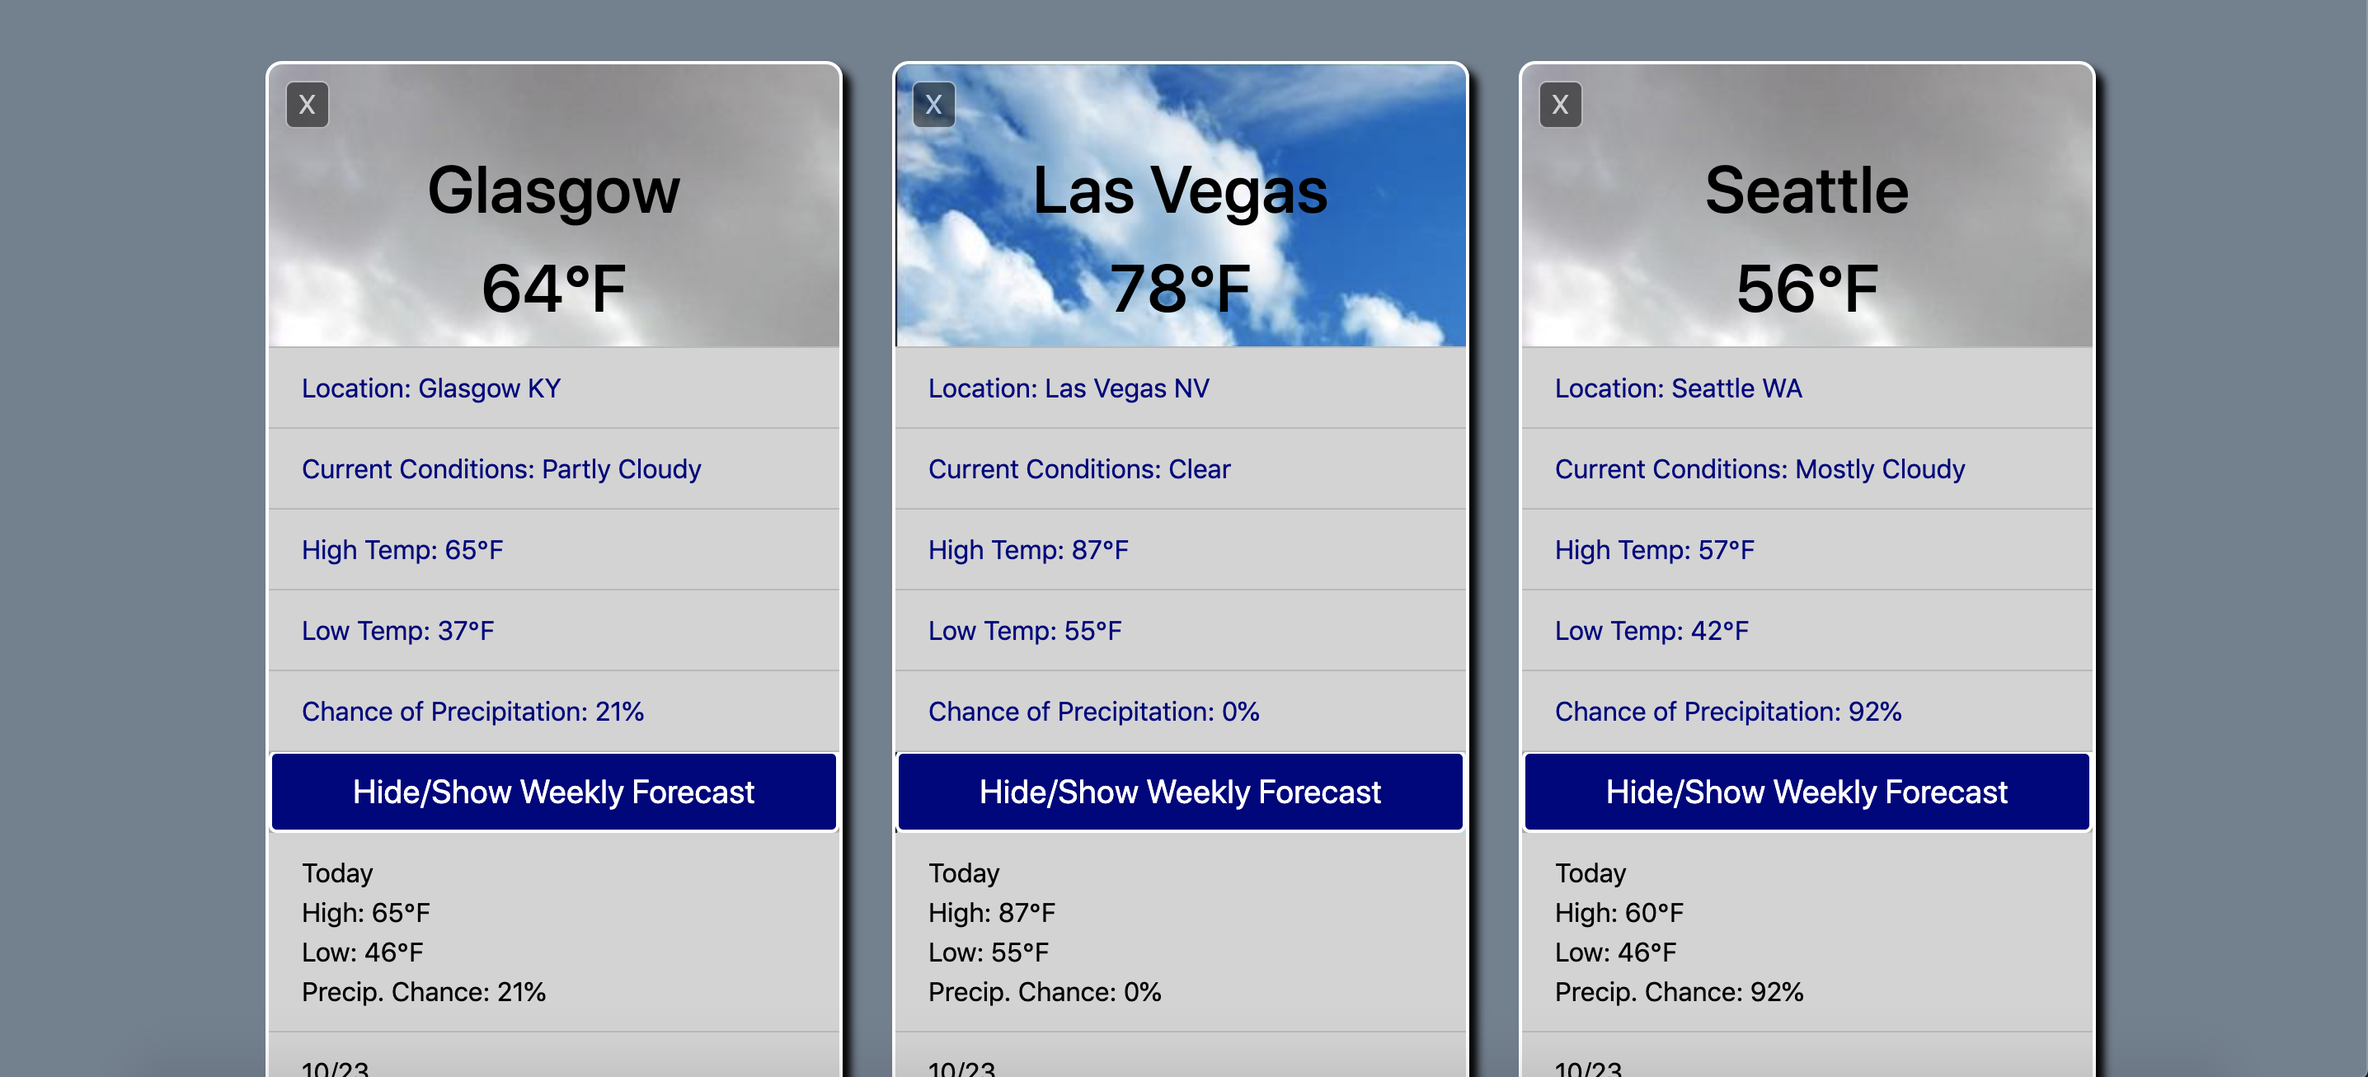
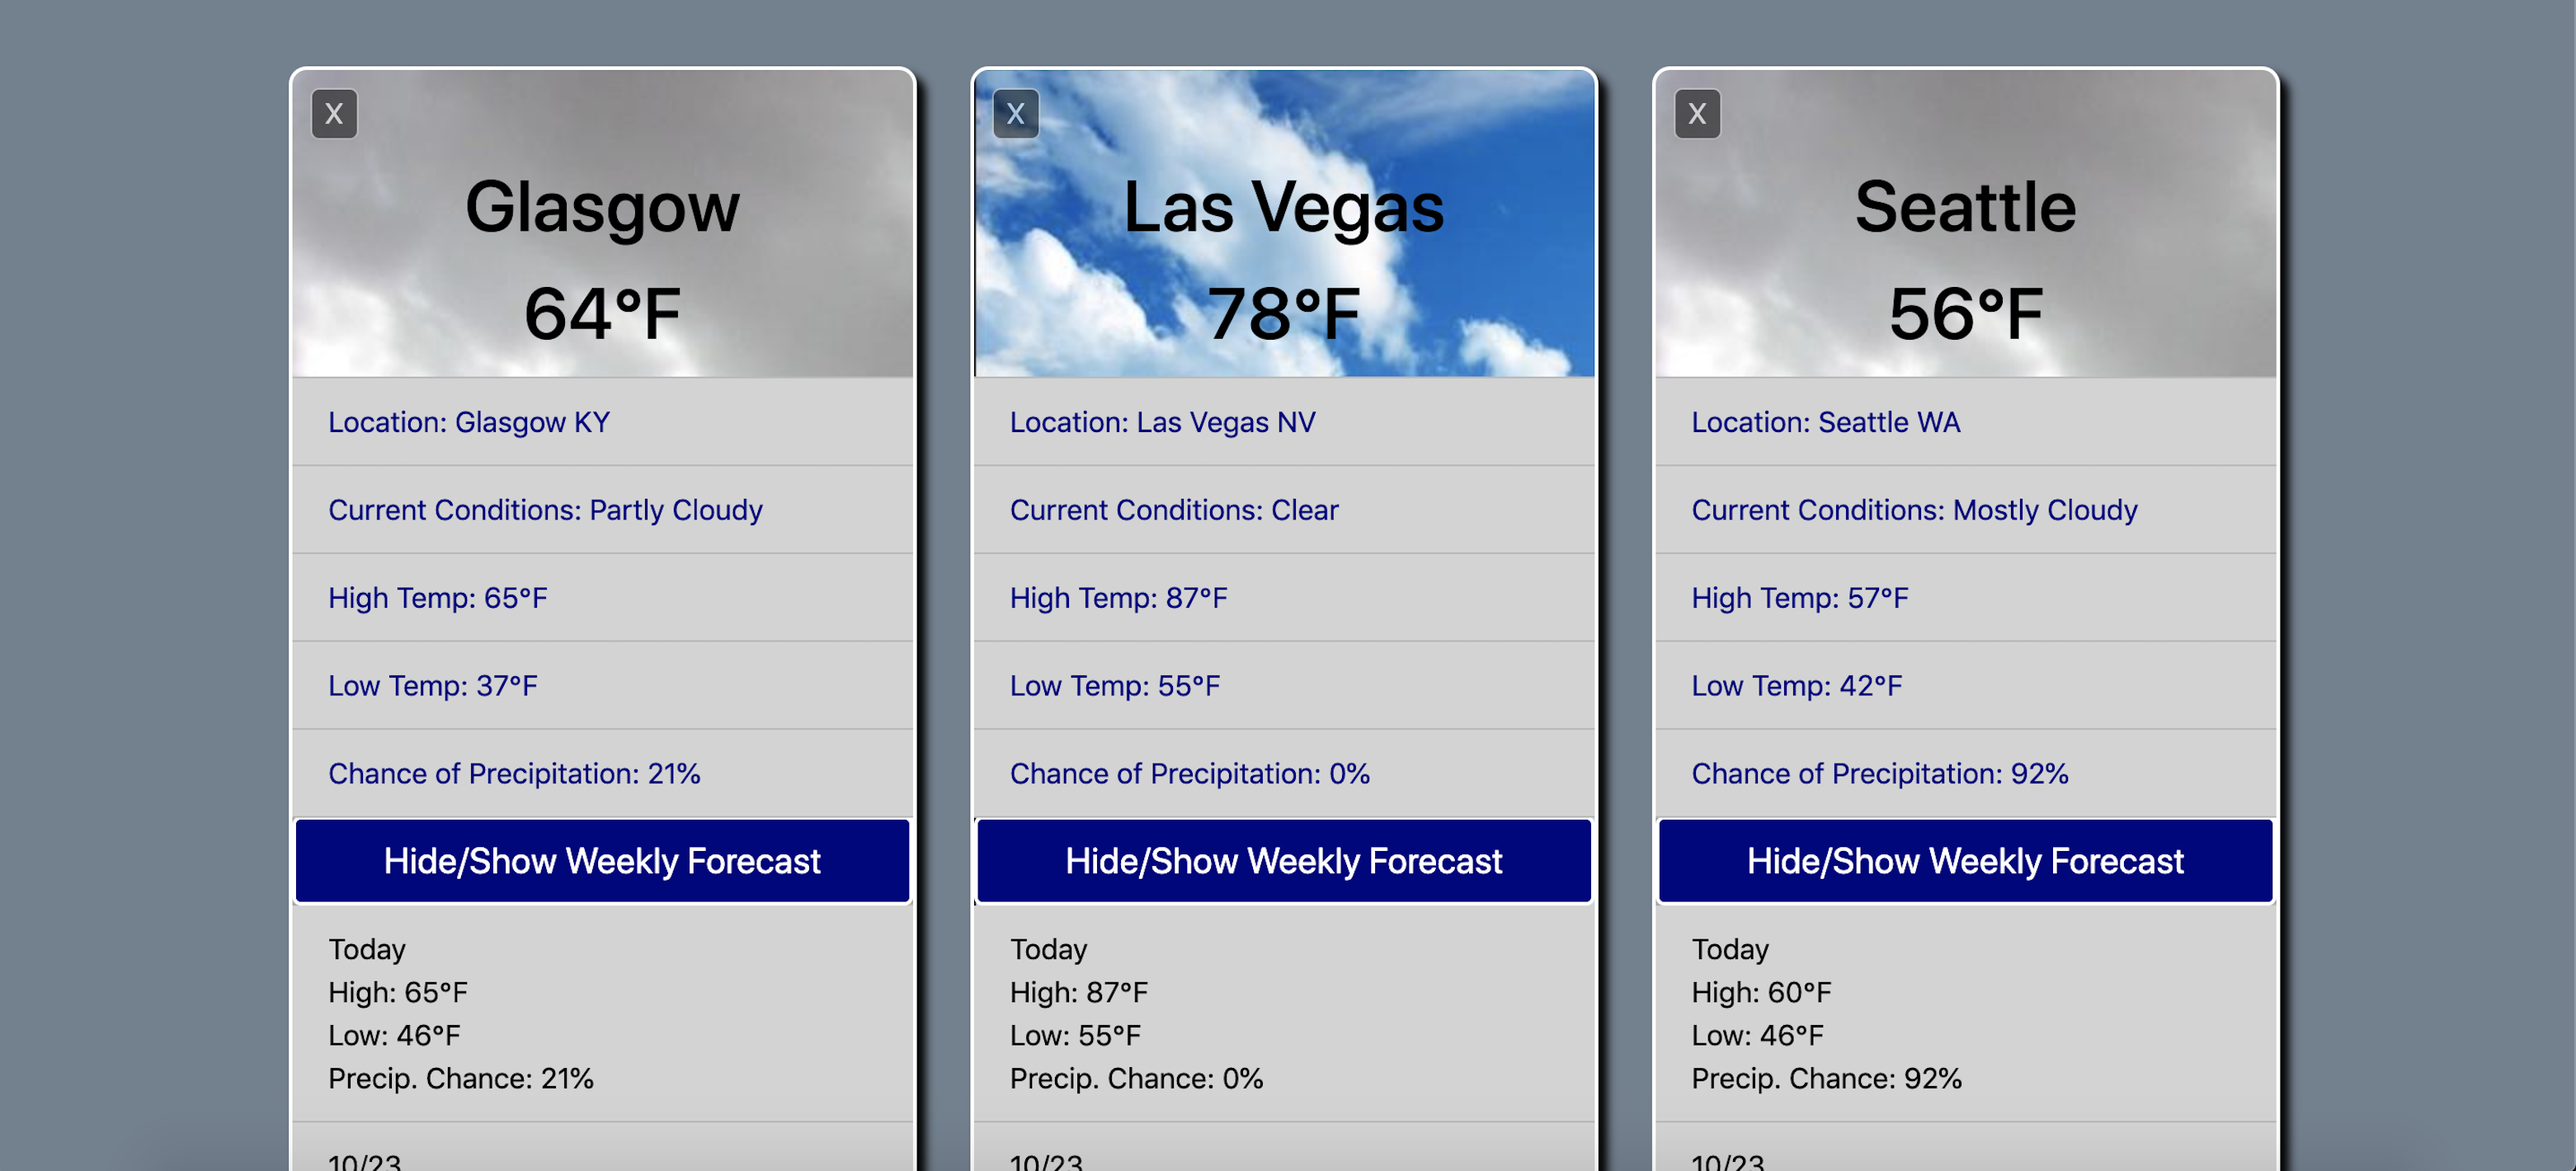
Changed the size of the Weather API Site picture

diff --git a/index.html b/index.html
@@ -198,7 +198,7 @@
             </div>
           </a>
         </div>
-        <div class="col-lg-4 col-sm-7">
+        <div class="col-lg-4 col-sm-6">
           <a class="portfolio-box" href="/img/Weather_API_Site.png">
             <img class="img-fluid" src="/img/Weather_API_Site.png" alt="Weather API Site">
             <div class="portfolio-box-caption">
